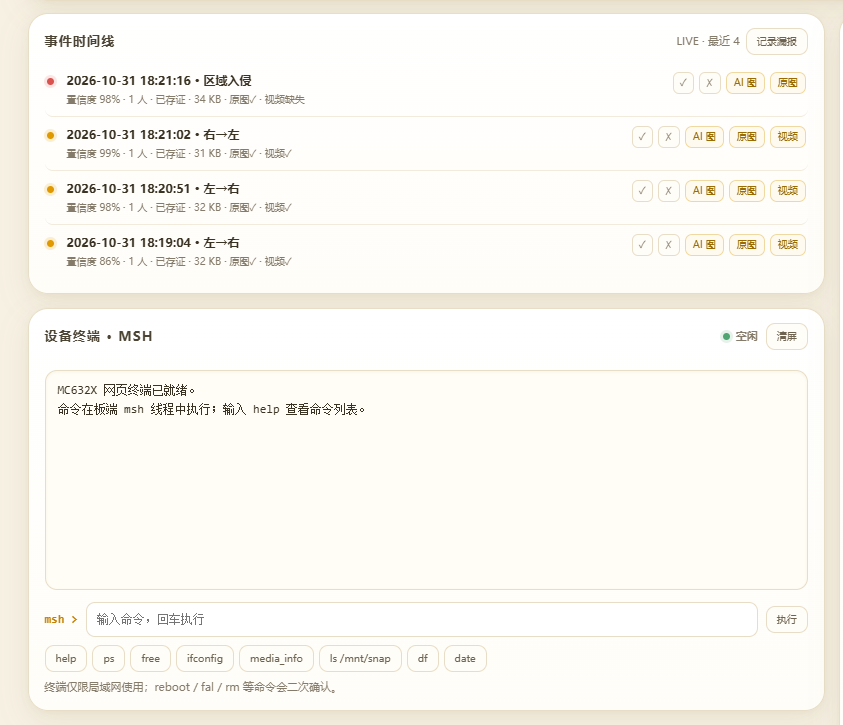
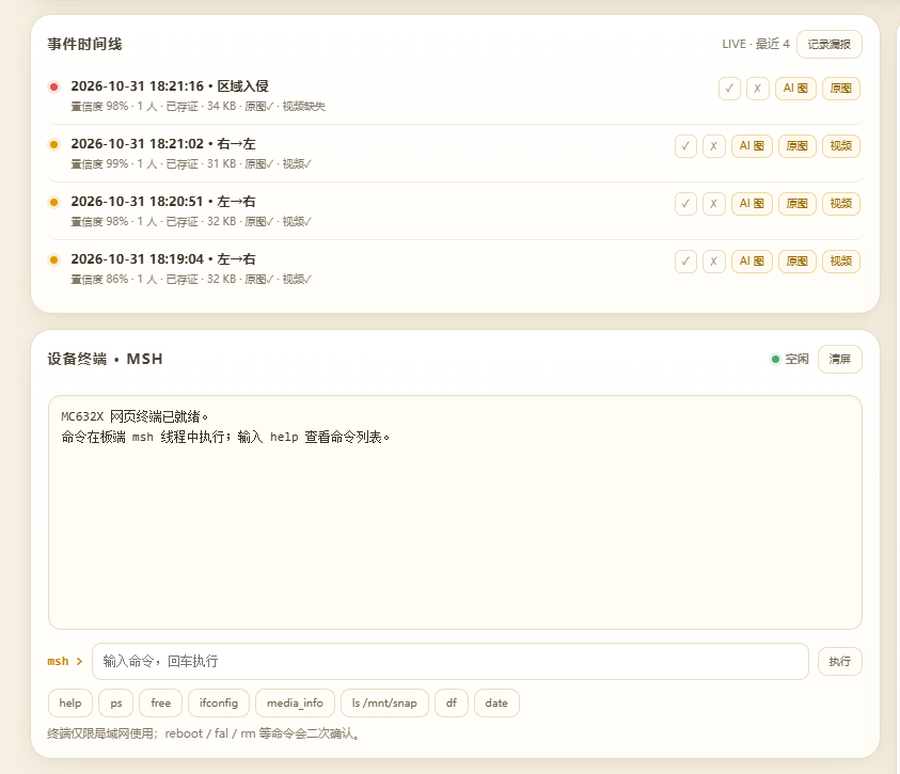
assets: 截图统一为 900px 宽，重生成 900px GIF

diff --git a/screenshots/README.md b/screenshots/README.md
@@ -15,7 +15,7 @@ screenshots/
 | `双路预览+状态+人流量统计.png` | 看板首页：双路预览、布防/抓拍、30 秒录制卡片、设备状态、人流量统计与柱状图 |
 | `事件时间线+msh终端.png` | 事件时间线（AI 图 / 副机位 / 视频入口、置信度、标注）与网页 msh 终端 |
 | `区域留证.png` | 周界事件存证：AI 机位带检测框的图 |
-| `视频取证.gif` | 事件短视频播放的内嵌预览（1.1MB，README/论坛内直接播放） |
+| `视频取证.gif` | 事件短视频播放的内嵌预览（900px 宽，约 2MB，README/论坛内直接播放） |
 | `ISP图像参数调节.png` | 图像参数页：按摄像头独立调亮度/对比度/饱和度/锐度/EV/红蓝增益/日夜/白平衡 |
 | `MC632x+ESP32-S3.jpg` | 实机：MC632X 双摄板（DB-XC00）+ 7 寸屏 + 两路摄像头 + AtomS3R 小智 |
 
